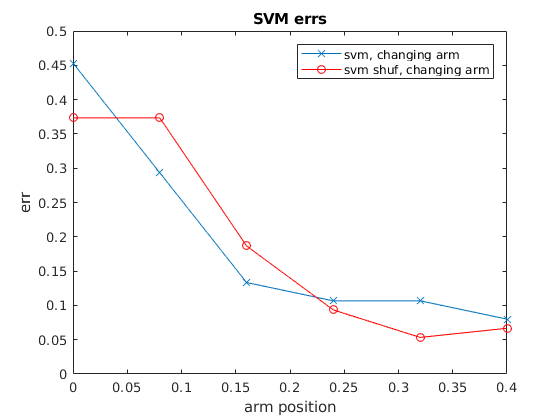
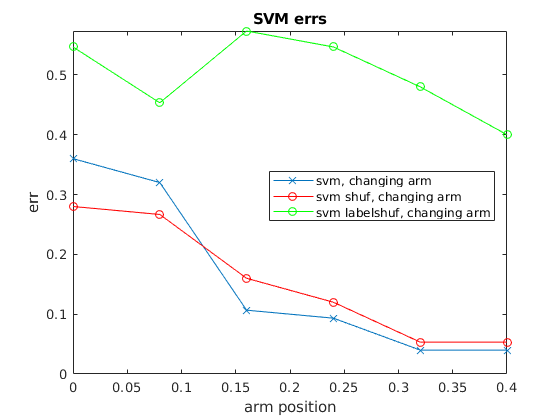
changing arm stuff and label shuffle

diff --git a/decode_end_alg.m b/decode_end_alg.m
@@ -1,4 +1,4 @@
-function [poss, err, err_map, vals, masks] = decode_end_alg(preprocessor, model_generator, predictor, ds, step_size, final_pos, do_shuffle)
+function [poss, err, err_map, vals, masks] = decode_end_alg(preprocessor, model_generator, predictor, ds, step_size, final_pos, do_shuffle, do_label_shuffle)
 MIN_POS = 0;
 if ~exist('step_size', 'var')
     step_size = 0.05;
@@ -8,6 +8,9 @@ if ~exist('final_pos', 'var')
 end
 if ~exist('do_shuffle', 'var')
     do_shuffle = false;
+end
+if ~exist('do_label_shuffle', 'var')
+    do_label_shuffle = false;
 end
 
 end_labels = {ds.trials.end};
@@ -21,7 +24,7 @@ ks_start = classify_labels(start_labels);
 err = cell(1,length(vals));
 err_map = cell(1,length(vals));
 for i = 1:length(vals)
-    [err{i}, err_map{i}] = evaluate_on_data(X_partition{i}, ks_partition{i}, preprocessor, model_generator, predictor, do_shuffle);
+    [err{i}, err_map{i}] = evaluate_on_data(X_partition{i}, ks_partition{i}, preprocessor, model_generator, predictor, do_shuffle, do_label_shuffle);
 end
 end
 
@@ -45,7 +48,7 @@ for i = 1:length(labels)
 end
 end
 
-function [err, err_map] = evaluate_on_data(X_all, ks, preprocessor, model_generator, predictor, do_shuffle)
+function [err, err_map] = evaluate_on_data(X_all, ks, preprocessor, model_generator, predictor, do_shuffle, do_label_shuffle)
 [M,~,P] = size(X_all);
 err = zeros(1,P);
 err_map = zeros(M,P);
@@ -63,6 +66,9 @@ for j = 1:P
         ks_train = ks(~mask);
         if(do_shuffle) 
             X_train = shuffle(X_train, ks_train);
+        end
+        if(do_label_shuffle)
+            ks_train = ks_train(randperm(length(ks_train)));
         end
         
         X_test   = X(mask,:);

diff --git a/switch_day_test.m b/switch_day_test.m
@@ -1,0 +1,36 @@
+clear;
+pre = @(X) X;
+%svm_train = @(X_train, ks_train) fitclinear(X_train, ks_train,...
+%    'Learner', 'svm', 'ClassNames', [1 2]);
+train = @(X_train, ks_train) fitcsvm(X_train, ks_train,...
+    'KernelFunction', 'linear', 'Standardize', true,...
+    'ClassNames', [1 2]);
+test = @(model, X_test) predict(model, X_test);
+
+
+ds = quick_ds(fullfile('../c14m4', 'c14m4d16'), 'deprobe', 'nocells');
+[poss{1}, err{1}, err_map{1}, vals{1}, masks{1}] = decode_end_alg(...
+    pre, train, test, ds, 0.08, 0.4, 0);
+[poss{2}, err{2}, err_map{2}, vals{2}, masks{2}] = decode_end_alg(...
+    pre, train, test, ds, 0.08, 0.4, 1);
+[poss{3}, err{3}, err_map{3}, vals{3}, masks{3}] = decode_end_alg(...
+    pre, train, test, ds, 0.08, 0.4, 0, 1);
+
+view_errmap(ds, poss{1}, err_map{1}, vals{1}, masks{1},...
+    'ego left to allo south', 'SVM');
+view_errmap(ds, poss{2}, err_map{2}, vals{2}, masks{2},...
+    'ego left to allo south', 'SVM shuf');
+view_errmap(ds, poss{3}, err_map{3}, vals{3}, masks{3},...
+    'ego left to allo south', 'SVM labelshuf');
+
+figure;
+plot(poss{1}, err{1}{2}, '-x', 'DisplayName', 'svm, changing arm');
+ylim([0 inf]);
+hold on;
+plot(poss{2}, err{2}{2}, '-or', 'DisplayName', 'svm shuf, changing arm');
+plot(poss{3}, err{3}{2}, '-og', 'DisplayName', 'svm labelshuf, changing arm');
+
+xlabel('arm position');
+ylabel('err');
+title('SVM errs');
+legend(gca, 'show');

diff --git a/view_FOI.m b/view_FOI.m
@@ -1,5 +1,9 @@
 function view_FOI(frame_of_interest, pos)
 %VIEW_FOI Plot where the frames of interest are
+if isstruct(frame_of_interest)
+    [frame_of_interest, pos] = find_frame_at_pos(frame_of_interest, pos);
+end
+
 figure
 for i = 1:size(frame_of_interest,1)
     c = pos{i};

diff --git a/gen_all_X_at_pos_closest.m b/gen_all_X_at_pos_closest.m
@@ -1,5 +1,5 @@
 function X_all = gen_all_X_at_pos_closest(ds, poss)
-    [frame_of_interest, ~] = find_frame_at_pos(ds, poss);
+    [frame_of_interest, pos] = find_frame_at_pos(ds, poss);
 
     X_all = zeros(ds.num_trials, ds.num_cells, length(poss));
     for  j = 1:length(poss)
